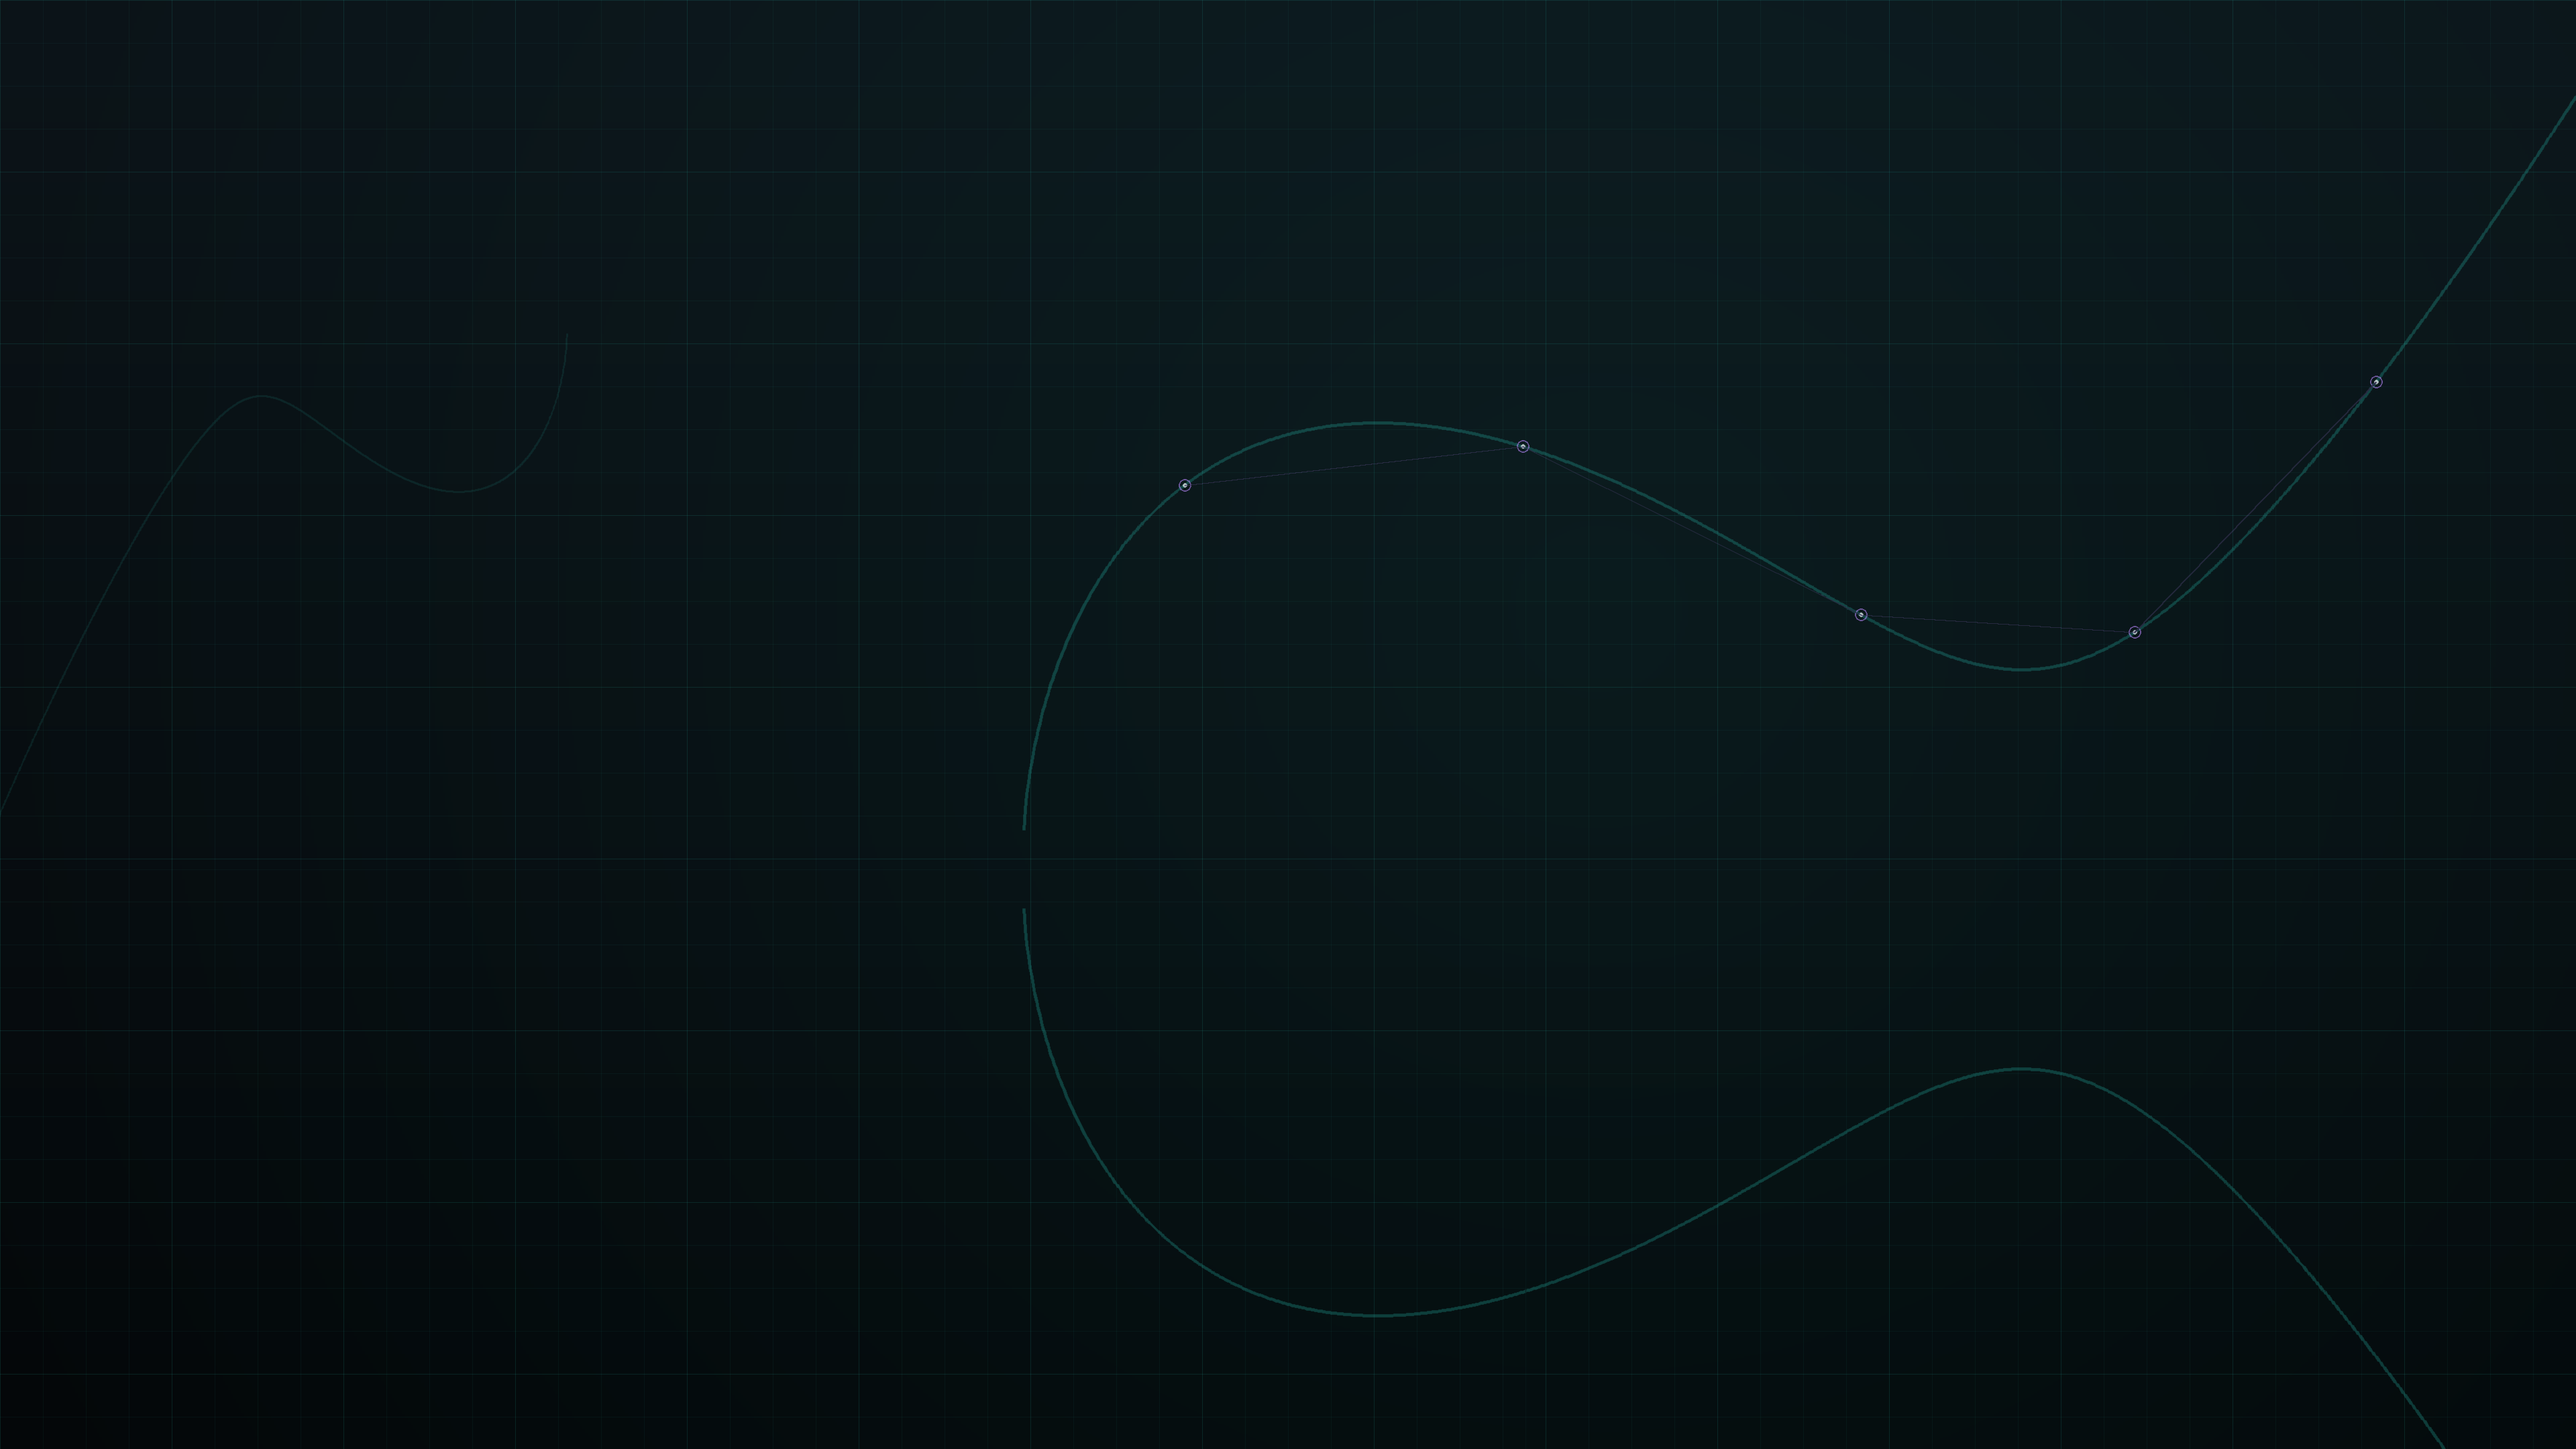
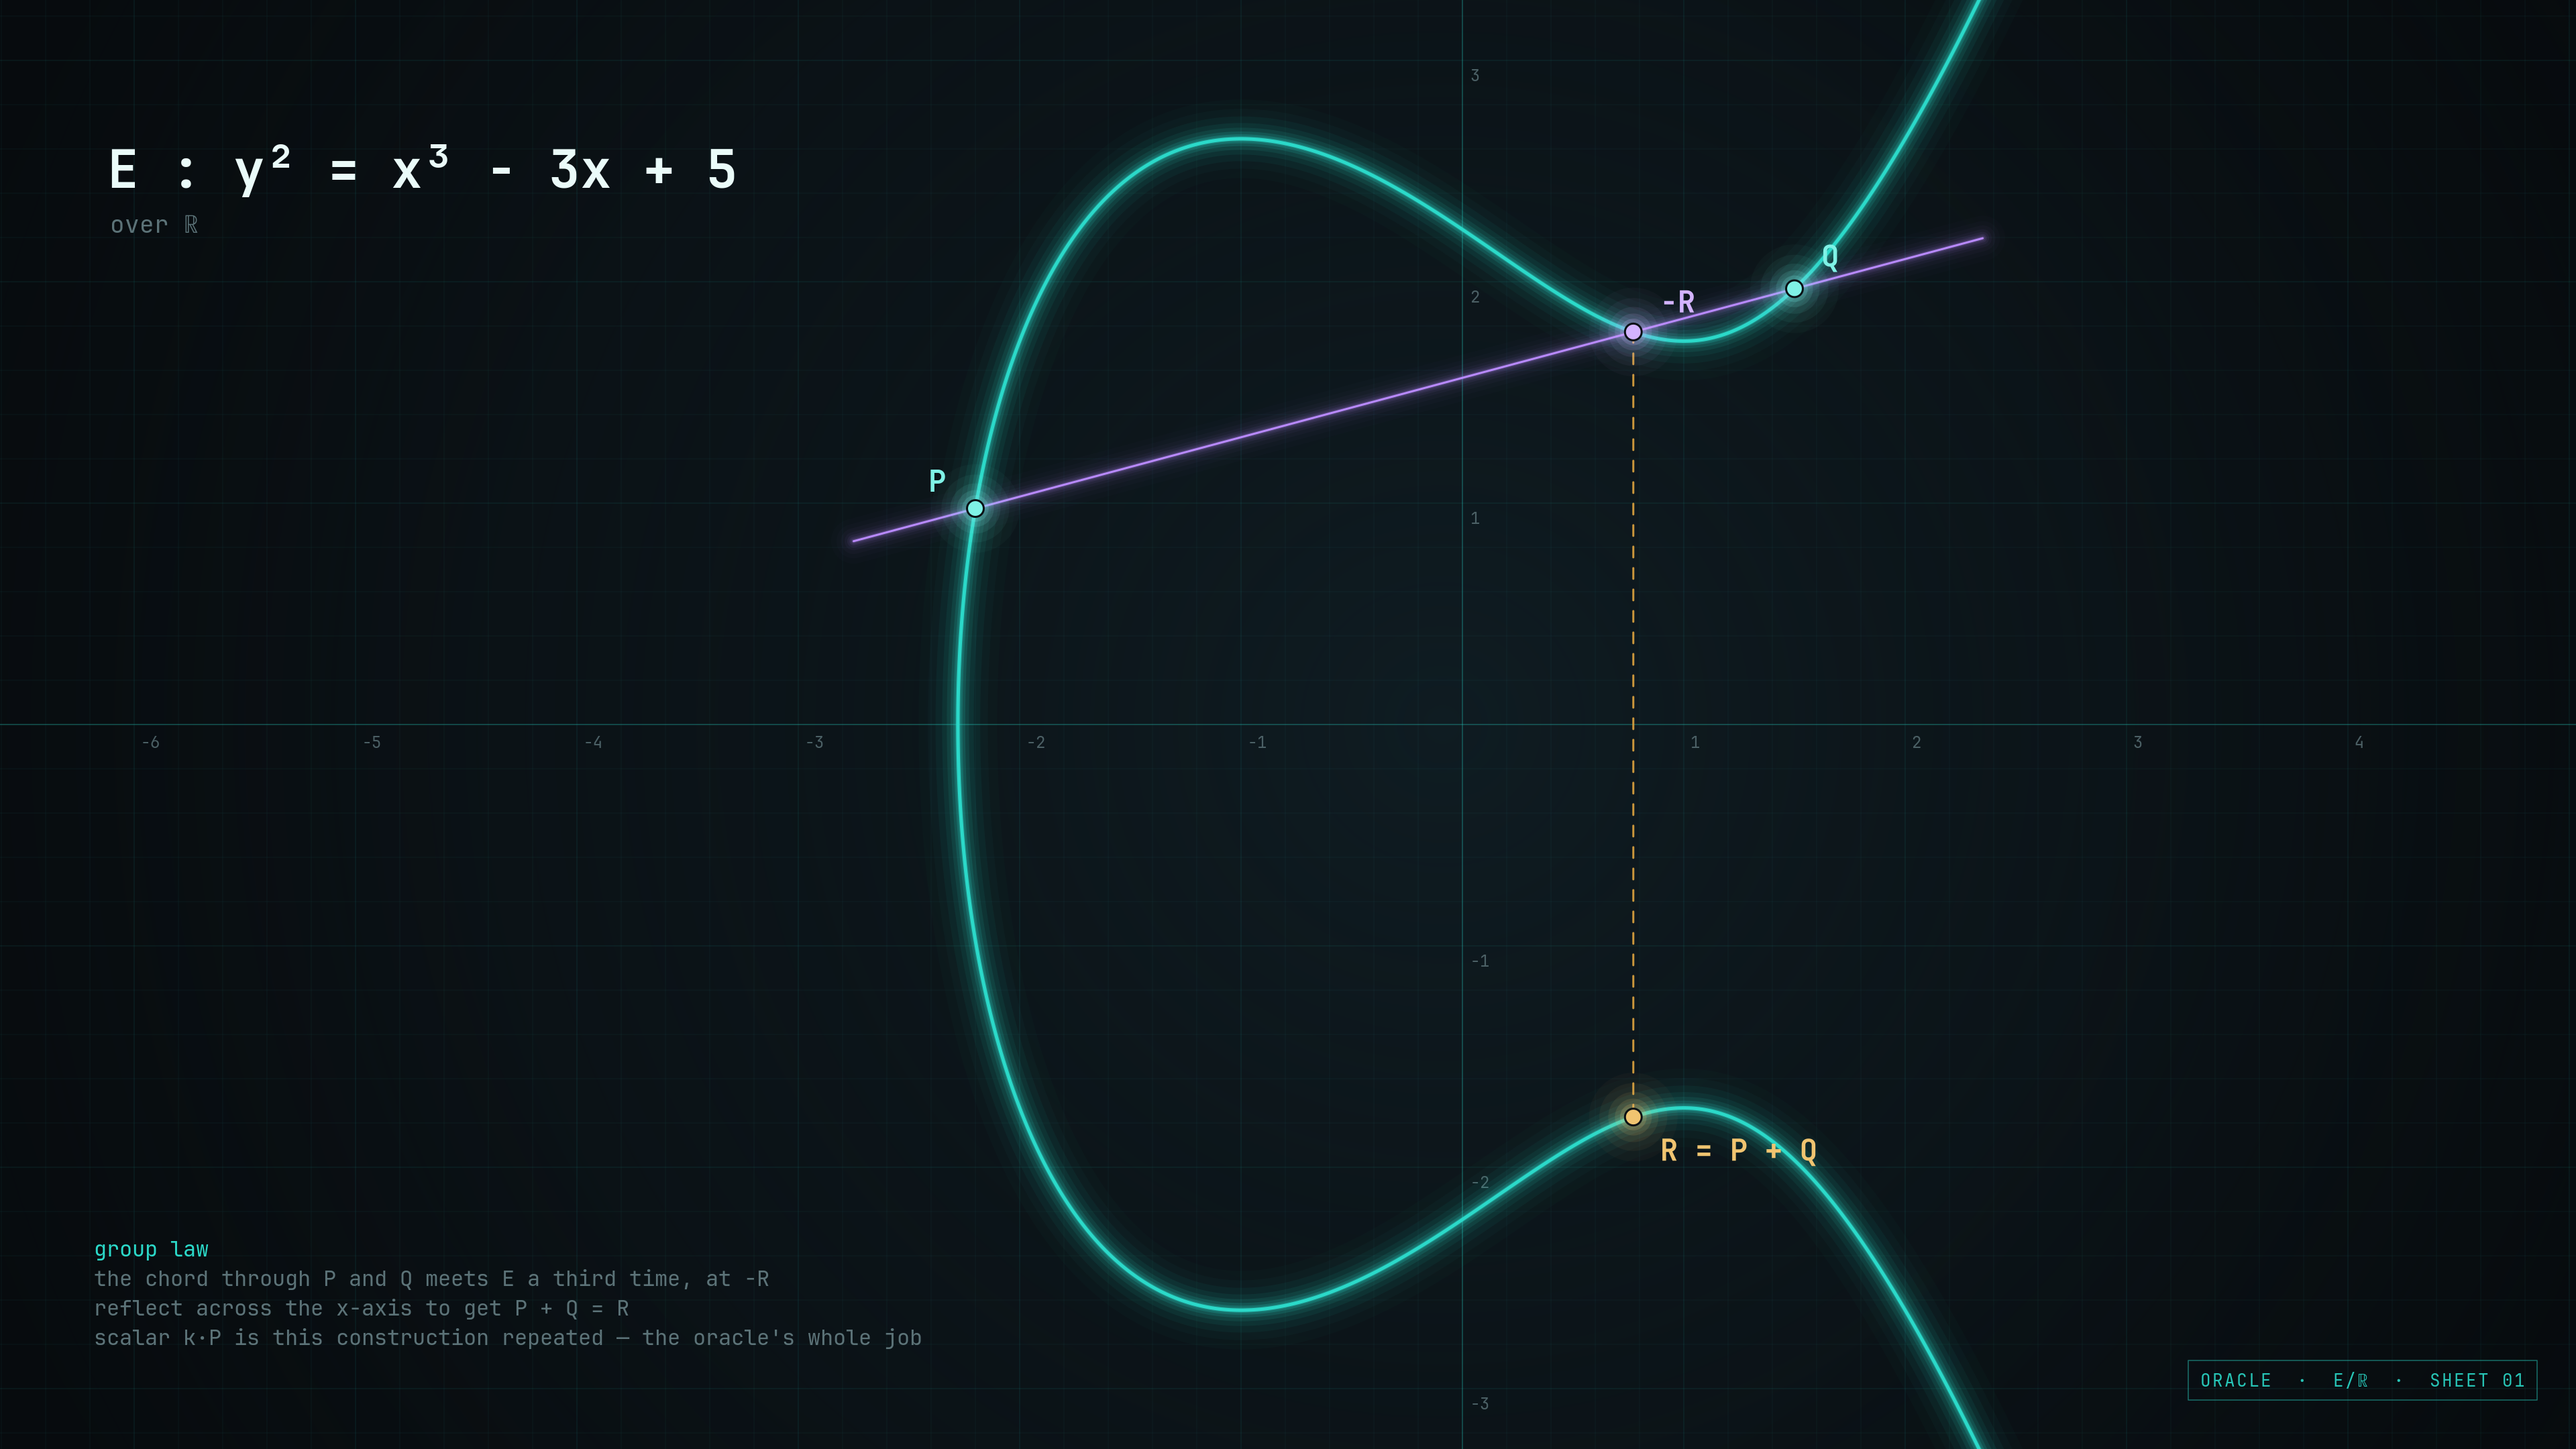
Update desktop theme section for the rebuilt Oracle theme
Oracle is now a complete Omarchy theme (shell, Hyprland chrome, btop, six
rendered 4K backgrounds, boot logo). Replace the wallpaper and bar
screenshots with the new ones and add a real desktop screenshot plus the
paper-oracle sheet.

diff --git a/README.md b/README.md
@@ -12,11 +12,15 @@ Omarchy is keyboard-driven by design — nearly everything (launching apps, mana
 
 ### Desktop theme
 
-The keybindings above come from an Omarchy setup running a custom theme called [Oracle](https://github.com/Ak1ra00/oracle) — an elliptic curve plotted on a blueprint grid, in a cyan/violet palette:
+The keybindings above come from an Omarchy setup running a custom theme called [Oracle](https://github.com/Ak1ra00/oracle) — a full Omarchy theme built around the maths behind [vaultless](https://github.com/Ak1ra00/vaultless): a cyan/violet/amber palette on charcoal, gradient window borders with a soft cyan glow, a themed shell (bar, menus, notifications, lock screen), btop, and six 4K backgrounds that are rendered from the actual elliptic-curve and OPRF constructions rather than downloaded.
 
-![Oracle theme wallpaper — an elliptic curve plotted on a blueprint grid](screenshots/theme-wallpaper.png)
+![Oracle theme on the desktop — btop, Neovim and fastfetch in the theme's colours](screenshots/theme-desktop.png)
 
-![Top bar showing the Oracle theme's accent colors](screenshots/theme-bar.png)
+![Oracle wallpaper 01 — the group law on y² = x³ − 3x + 5, plotted on a blueprint grid](screenshots/theme-wallpaper.png)
+
+![Oracle wallpaper 04 — a paper oracle sheet with a real VLT1 QR code](screenshots/theme-paper-oracle.png)
+
+![Top bar showing the Oracle theme's accent colours](screenshots/theme-bar.png)
 
 ## What's in it
 
